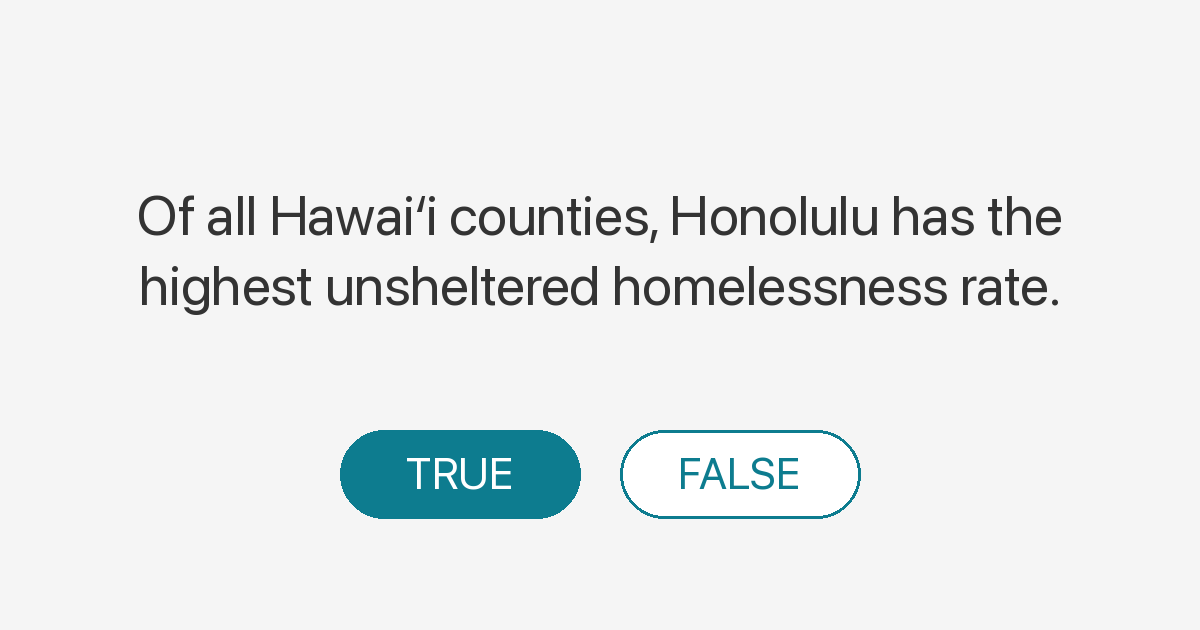
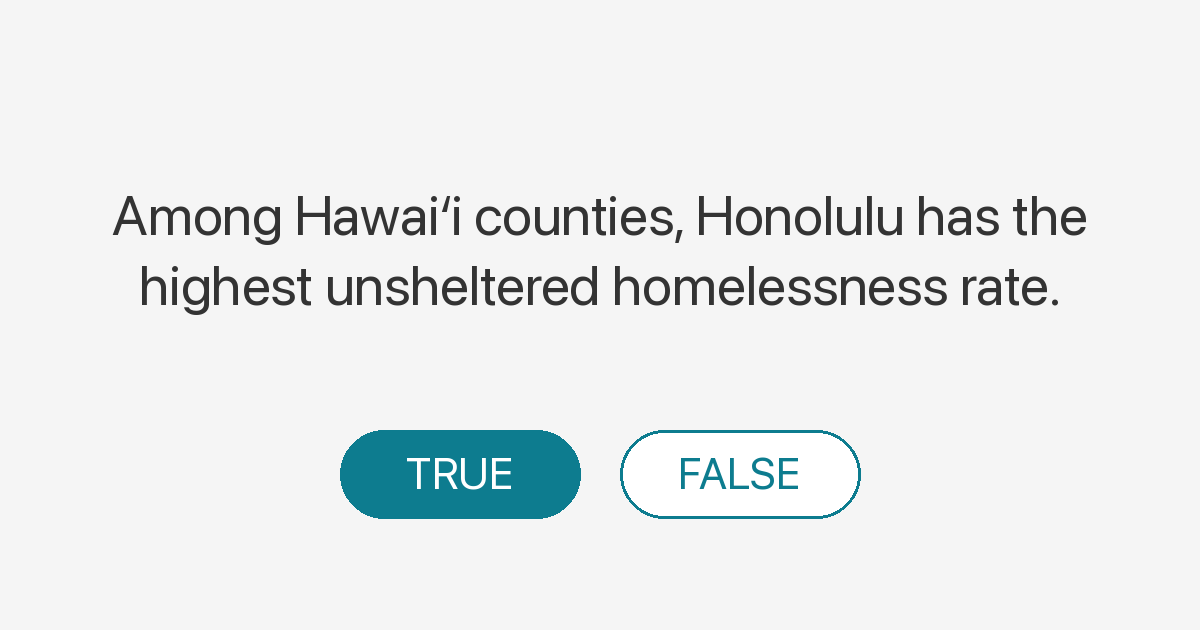
qotd q080: "Of all Hawaiʻi counties" -> "Among Hawaiʻi counties"
Trim the lede and avoid the awkward "of all ... counties" stack
(we have only four).

Changed region(s): [[0.0925, 0.3016, 0.925, 0.3921]]

diff --git a/q/q080/index.html b/q/q080/index.html
@@ -13,7 +13,7 @@
   <meta name="twitter:card" content="summary_large_image">
   <meta name="twitter:title" content="You know Hawaiʻi?">
   <meta name="twitter:image" content="https://hawaiidashboard.org/assets/og/q/of-all-hawaii-counties-honolulu-has-the-highest-unsheltered-homelessness-rate.png">
-  <meta name="description" content="Of all Hawaiʻi counties, Honolulu has the highest unsheltered homelessness rate.">
+  <meta name="description" content="Among Hawaiʻi counties, Honolulu has the highest unsheltered homelessness rate.">
   <link rel="canonical" href="https://hawaiidashboard.org/q/q080/">
   <script>window.location.replace("/?from_q=q080");</script>
   <meta http-equiv="refresh" content="0;url=https://hawaiidashboard.org/?from_q=q080">
@@ -22,7 +22,7 @@
   <p>Redirecting to <a href="https://hawaiidashboard.org/?from_q=q080">You know Hawaiʻi?</a>&hellip;</p>
   <article style="max-width:640px;margin:2rem auto;padding:0 1rem;font-family:-apple-system,BlinkMacSystemFont,'Segoe UI',sans-serif;color:#333;line-height:1.55;">
     <p style="color:#888;font-size:0.875rem;text-transform:uppercase;letter-spacing:0.05em;margin:0;">You know Hawaiʻi?</p>
-    <p style="margin:0.25rem 0 1rem;font-size:1.25rem;font-weight:600;">Of all Hawaiʻi counties, Honolulu has the highest unsheltered homelessness rate.</p>
+    <p style="margin:0.25rem 0 1rem;font-size:1.25rem;font-weight:600;">Among Hawaiʻi counties, Honolulu has the highest unsheltered homelessness rate.</p>
     <p><strong>False.</strong> In 2024, the county with the highest value was Kauaʻi at 63.0 per 10K.</p>
     <p style="margin-top:1.5rem;"><a href="/c/unsheltered_homeless_rate/">See the data &rarr;</a></p>
   </article>

diff --git a/js/questions.js b/js/questions.js
@@ -551,7 +551,7 @@ const QOTD_QUESTIONS = [
   {
       "id": "q080",
       "slug": "of-all-hawaii-counties-honolulu-has-the-highest-unsheltered-homelessness-rate",
-      "claim": "Of all Hawaiʻi counties, Honolulu has the highest unsheltered homelessness rate.",
+      "claim": "Among Hawaiʻi counties, Honolulu has the highest unsheltered homelessness rate.",
       "correct": false,
       "answer": "In 2024, the county with the highest value was Kauaʻi at 63.0 per 10K.",
       "chartUrl": "/c/unsheltered_homeless_rate/",

diff --git a/index.html b/index.html
@@ -369,7 +369,7 @@
     <script src="js/export.js?v=20260515a"></script>
     <script src="js/share-menu.js?v=20260527a"></script>
     <script src="js/modal.js?v=20260518a"></script>
-    <script src="js/questions.js?v=20260530b"></script>
+    <script src="js/questions.js?v=20260530c"></script>
     <script src="js/qotd.js?v=20260518a"></script>
     <script src="js/app.js?v=20260515a"></script>
 </body>
